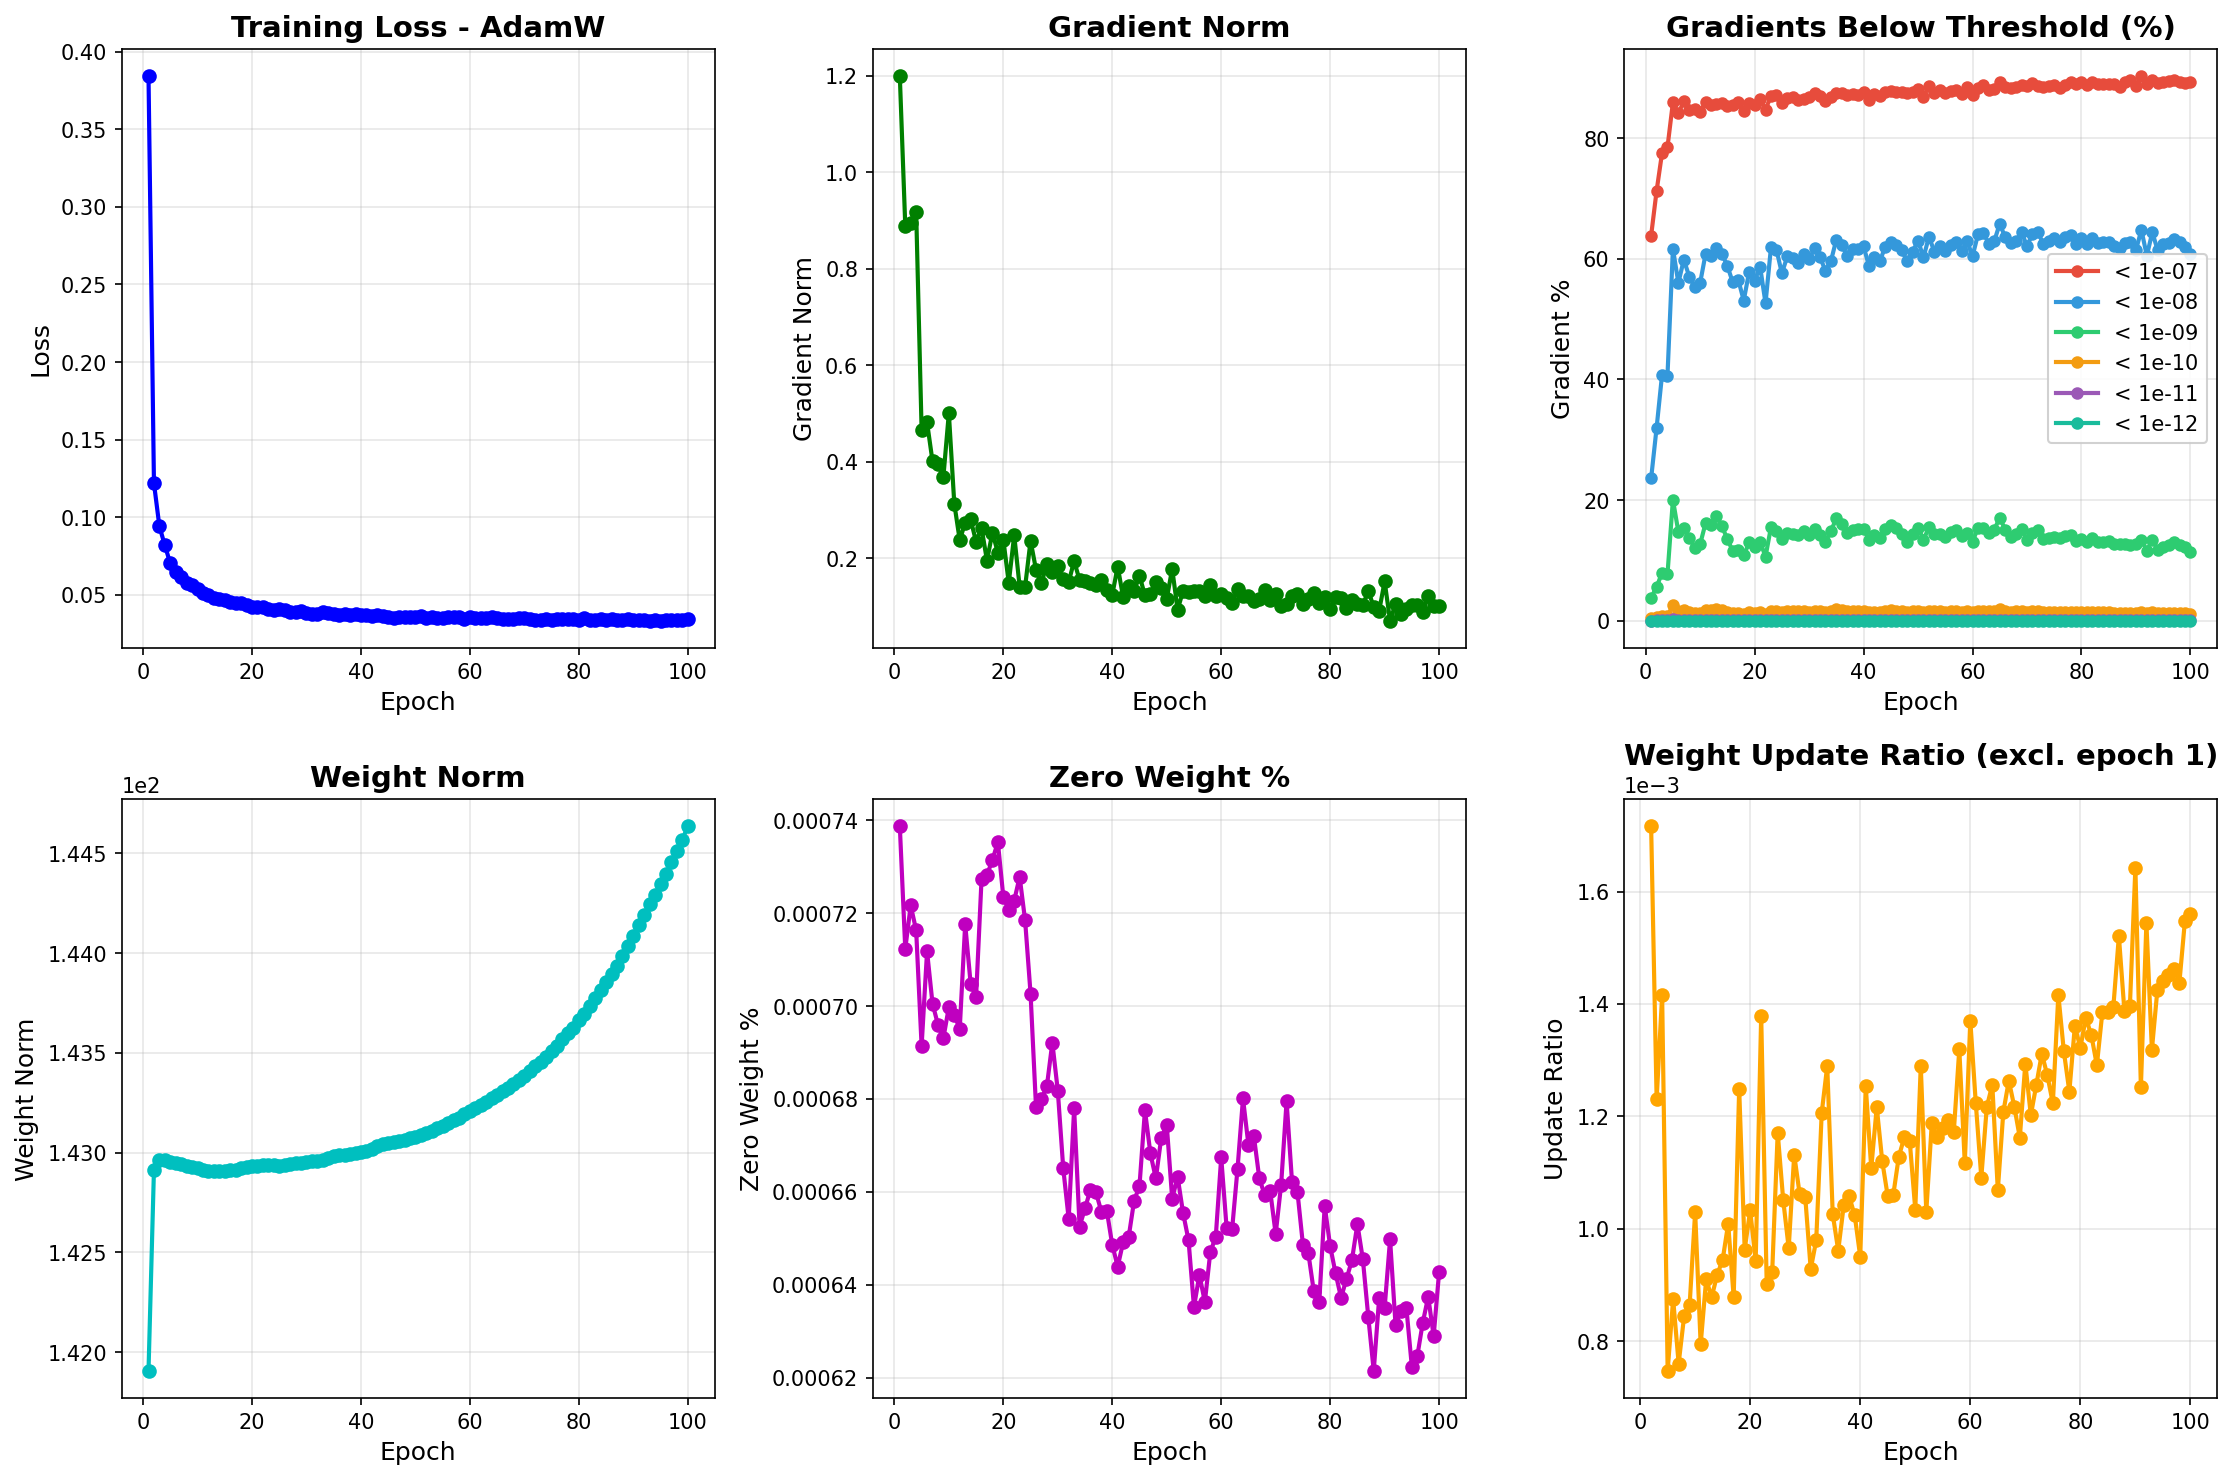
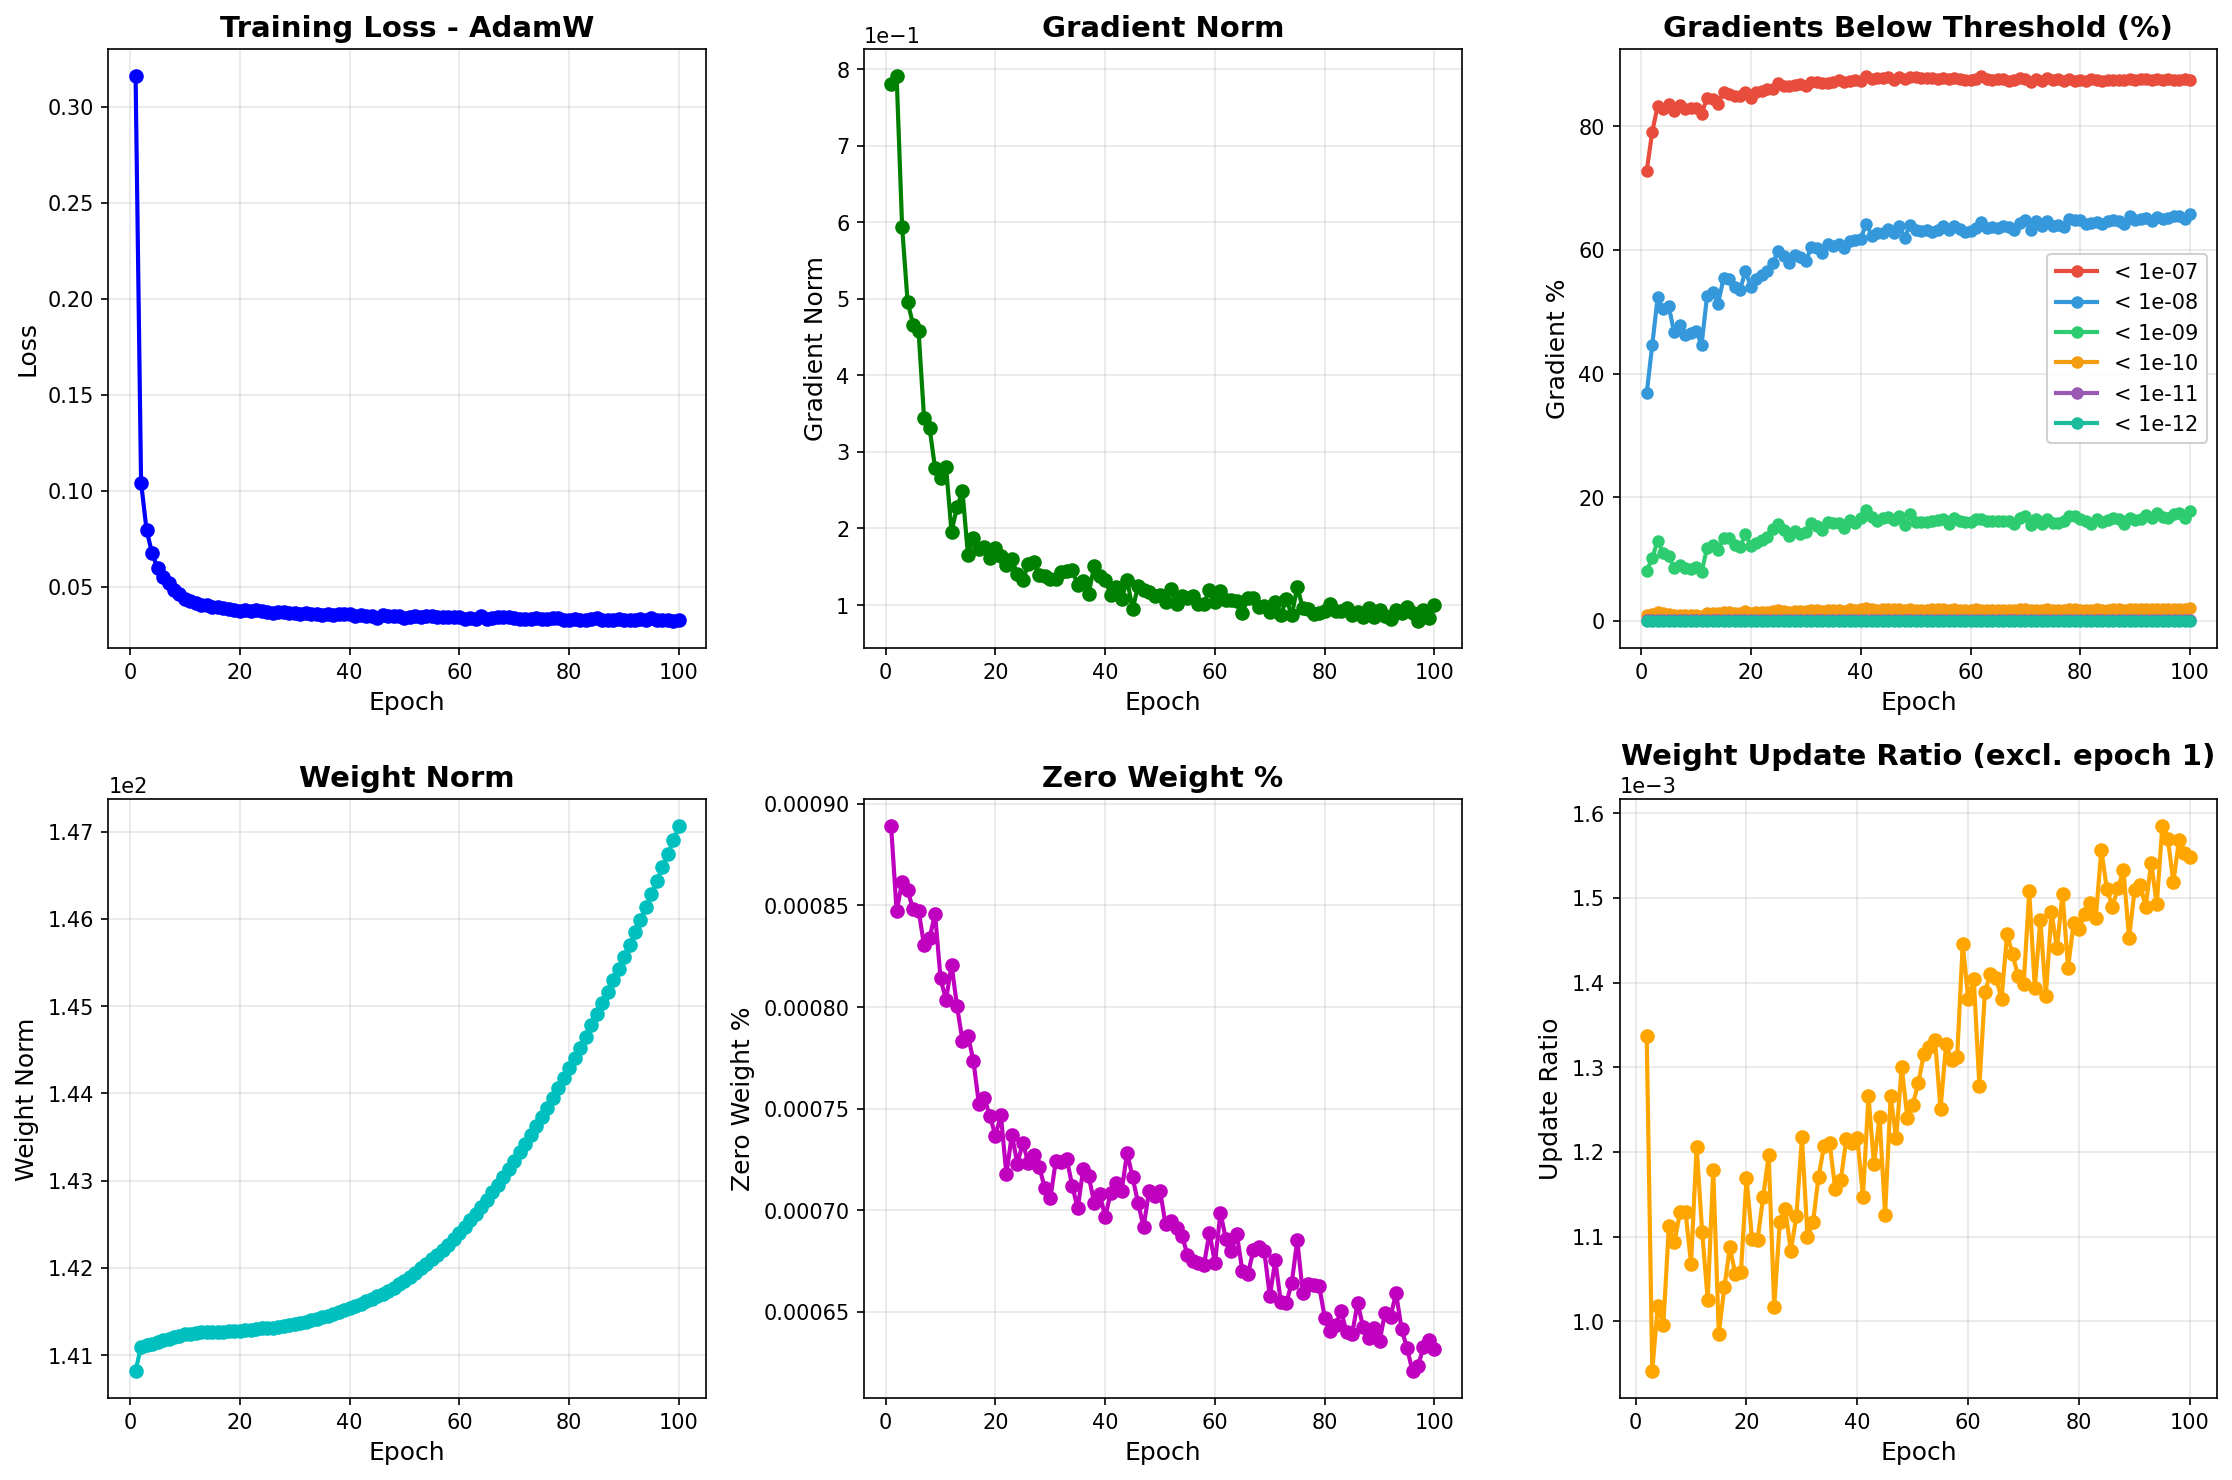
fix backward dlpm

diff --git a/ddpm_dlpm_multigpu/fid.py b/ddpm_dlpm_multigpu/fid.py
@@ -92,7 +92,7 @@ def calculate_frechet_distance(mu1, sigma1, mu2, sigma2, eps=1e-6):
     return fid
 
 
-def extract_inception_features(images, batch_size=512, device='cpu', pretrained_path=None):
+def extract_inception_features(images, batch_size=512, device='cpu', pretrained_path=None, rank=0):
     """
     Extract InceptionV3 features from a batch of images.
 
@@ -101,6 +101,7 @@ def extract_inception_features(images, batch_size=512, device='cpu', pretrained_
         batch_size: Batch size for processing
         device: Device to use ('cpu' or 'cuda')
         pretrained_path: Path to pretrained InceptionV3 weights (for offline use)
+        rank: Process rank (default: 0) - only rank 0 shows progress bar
 
     Returns:
         features: [B, 2048] feature array
@@ -120,10 +121,14 @@ def extract_inception_features(images, batch_size=512, device='cpu', pretrained_
     dataset = TensorDataset(images)
     dataloader = DataLoader(dataset, batch_size=batch_size, shuffle=False)
 
-    # Extract features
+    # Extract features - only show progress bar on rank 0
     all_features = []
+    iterator = dataloader
+    if rank == 0:
+        iterator = tqdm(dataloader, desc="Extracting features")
+
     with torch.no_grad():
-        for batch in tqdm(dataloader, desc="Extracting features"):
+        for batch in iterator:
             batch_images = batch[0].to(device)
             features = feature_extractor(batch_images)
             all_features.append(features.cpu().numpy())
@@ -131,7 +136,7 @@ def extract_inception_features(images, batch_size=512, device='cpu', pretrained_
     return np.concatenate(all_features, axis=0)
 
 
-def load_real_images_for_fid(dataset, num_images, batch_size=128, start_idx=0):
+def load_real_images_for_fid(dataset, num_images, batch_size=128, start_idx=0, rank=0):
     """
     Load real images from dataset for FID calculation.
 
@@ -140,6 +145,7 @@ def load_real_images_for_fid(dataset, num_images, batch_size=128, start_idx=0):
         num_images: Number of images to load
         batch_size: Batch size for loading (default: 128)
         start_idx: Starting index in dataset (default: 0, for distributed loading)
+        rank: Process rank (default: 0) - only rank 0 shows progress bar
 
     Returns:
         images: Tensor [B, C, H, W] in range [-1, 1]
@@ -149,16 +155,20 @@ def load_real_images_for_fid(dataset, num_images, batch_size=128, start_idx=0):
     # Create subset of dataset (from start_idx to start_idx + num_to_load)
     subset = Subset(dataset, range(start_idx, start_idx + num_to_load))
 
-    # Load images in batches
+    # Load images in batches - only show progress bar on rank 0
     dataloader = DataLoader(subset, batch_size=batch_size, shuffle=False)
     real_images = []
-    for batch in tqdm(dataloader, desc="Loading real images"):
+    iterator = dataloader
+    if rank == 0:
+        iterator = tqdm(dataloader, desc="Loading real images")
+
+    for batch in iterator:
         real_images.append(batch)
 
     return torch.cat(real_images, dim=0)
 
 
-def generate_images_for_fid(diffusion, model, cfg, num_images):
+def generate_images_for_fid(diffusion, model, cfg, num_images, rank=0):
     """
     Generate images from diffusion model for FID calculation.
 
@@ -167,6 +177,7 @@ def generate_images_for_fid(diffusion, model, cfg, num_images):
         model: Trained U-Net model (should be in eval mode)
         cfg: Configuration object (must have fid_batch_size attribute)
         num_images: Number of images to generate
+        rank: Process rank (default: 0) - only rank 0 shows progress bar
 
     Returns:
         images: Tensor [B, C, H, W] in range [-1, 1]
@@ -178,8 +189,12 @@ def generate_images_for_fid(diffusion, model, cfg, num_images):
     num_full_batches = num_images // batch_size
     remainder = num_images % batch_size
 
-    # Generate full batches
-    for i in tqdm(range(num_full_batches), desc="Generating images for FID"):
+    # Generate full batches - only show progress bar on rank 0
+    iterator = range(num_full_batches)
+    if rank == 0:
+        iterator = tqdm(iterator, desc="Generating images for FID")
+
+    for i in iterator:
         samples = diffusion.generate_samples(cfg, model, return_intermediate=False, batch_size=batch_size)
 
         # Split batch into individual images: [batch_size, C, H, W] -> list of [C, H, W]
@@ -249,7 +264,7 @@ def calculate_fid_from_model_distributed(diffusion, model, dataset, cfg, rank, w
     if rank == 0:
         print(f"Loading real images (rank {rank}: indices {start_idx} to {end_idx-1})...")
 
-    real_images = load_real_images_for_fid(dataset, my_num_images, start_idx=start_idx).to(device)
+    real_images = load_real_images_for_fid(dataset, my_num_images, start_idx=start_idx, rank=rank).to(device)
 
     if rank == 0:
         print(f"Rank {rank} loaded {len(real_images)} real images")
@@ -260,7 +275,7 @@ def calculate_fid_from_model_distributed(diffusion, model, dataset, cfg, rank, w
 
     model.eval()
     with torch.no_grad():
-        generated_images = generate_images_for_fid(diffusion, model, cfg, my_num_images)
+        generated_images = generate_images_for_fid(diffusion, model, cfg, my_num_images, rank=rank)
         generated_images = generated_images.to(device)
 
     if rank == 0:
@@ -274,7 +289,8 @@ def calculate_fid_from_model_distributed(diffusion, model, dataset, cfg, rank, w
         real_images,
         batch_size=512,
         device=device,
-        pretrained_path=str(cfg.inception_path)
+        pretrained_path=str(cfg.inception_path),
+        rank=rank
     )
 
     if rank == 0:
@@ -284,7 +300,8 @@ def calculate_fid_from_model_distributed(diffusion, model, dataset, cfg, rank, w
         generated_images,
         batch_size=512,
         device=device,
-        pretrained_path=str(cfg.inception_path)
+        pretrained_path=str(cfg.inception_path),
+        rank=rank
     )
 
     if rank == 0:

diff --git a/ddpm_dlpm_multigpu/training.py b/ddpm_dlpm_multigpu/training.py
@@ -42,14 +42,15 @@ def create_warmup_scheduler(optimizer, warmup_epochs=15, start_factor=0.2):
 
 def train(cfg, optimizer_name="Adam"):
 
-    # Initialize distributed training
-    dist.init_process_group(backend='nccl')
-    rank = dist.get_rank()
-    world_size = dist.get_world_size()
-
-    # Set device for this process
+    # Get rank from environment and set device BEFORE initializing process group
+    # This ensures NCCL knows the exact GPU mapping from the start
+    rank = int(os.environ['LOCAL_RANK'])
     torch.cuda.set_device(rank)
     device = torch.device(f'cuda:{rank}')
+
+    # Initialize distributed training
+    dist.init_process_group(backend='nccl')
+    world_size = dist.get_world_size()
 
     # Only rank 0 prints and creates directories
     if rank == 0:

diff --git a/ddpm_dlpm_multigpu/dlpm_cifar10/config.py b/ddpm_dlpm_multigpu/dlpm_cifar10/config.py
@@ -16,7 +16,7 @@ class CONFIG:
     use_horizontal_flip = True
 
     num_epochs = 4000
-    checkpoint_epochs = [100, 500, 1000, 1500, 2000, 2500, 3000, 4000]
+    checkpoint_epochs = [4000]
 
     alpha = 1.7  
 
@@ -49,13 +49,13 @@ class CONFIG:
 
     optimizer_configs = {
         "Adam": {
-            "lr": 5e-4,
+            "lr": 4e-4,
             "betas": (0.9, 0.999),
             "eps": 1e-8,
             "weight_decay": 0
         },
         "AdamW": {
-            "lr": 5e-4,
+            "lr": 4e-4,
             "betas": (0.9, 0.999),
             "eps": 1e-8,
             "weight_decay": 1e-2

diff --git a/ddpm_dlpm_multigpu/process.py b/ddpm_dlpm_multigpu/process.py
@@ -449,7 +449,7 @@ class DLPM(DiffusionProcess):
             gamma_coeff = 1
             noise_term = 0
 
-        prev = (x_t - gamma_coeff * sigma_bar_t * noise_prediction) / gamma_t + noise_term
+        prev = x_t / gamma_t - gamma_coeff * sigma_bar_t * noise_prediction + noise_term
 
         return prev
 
